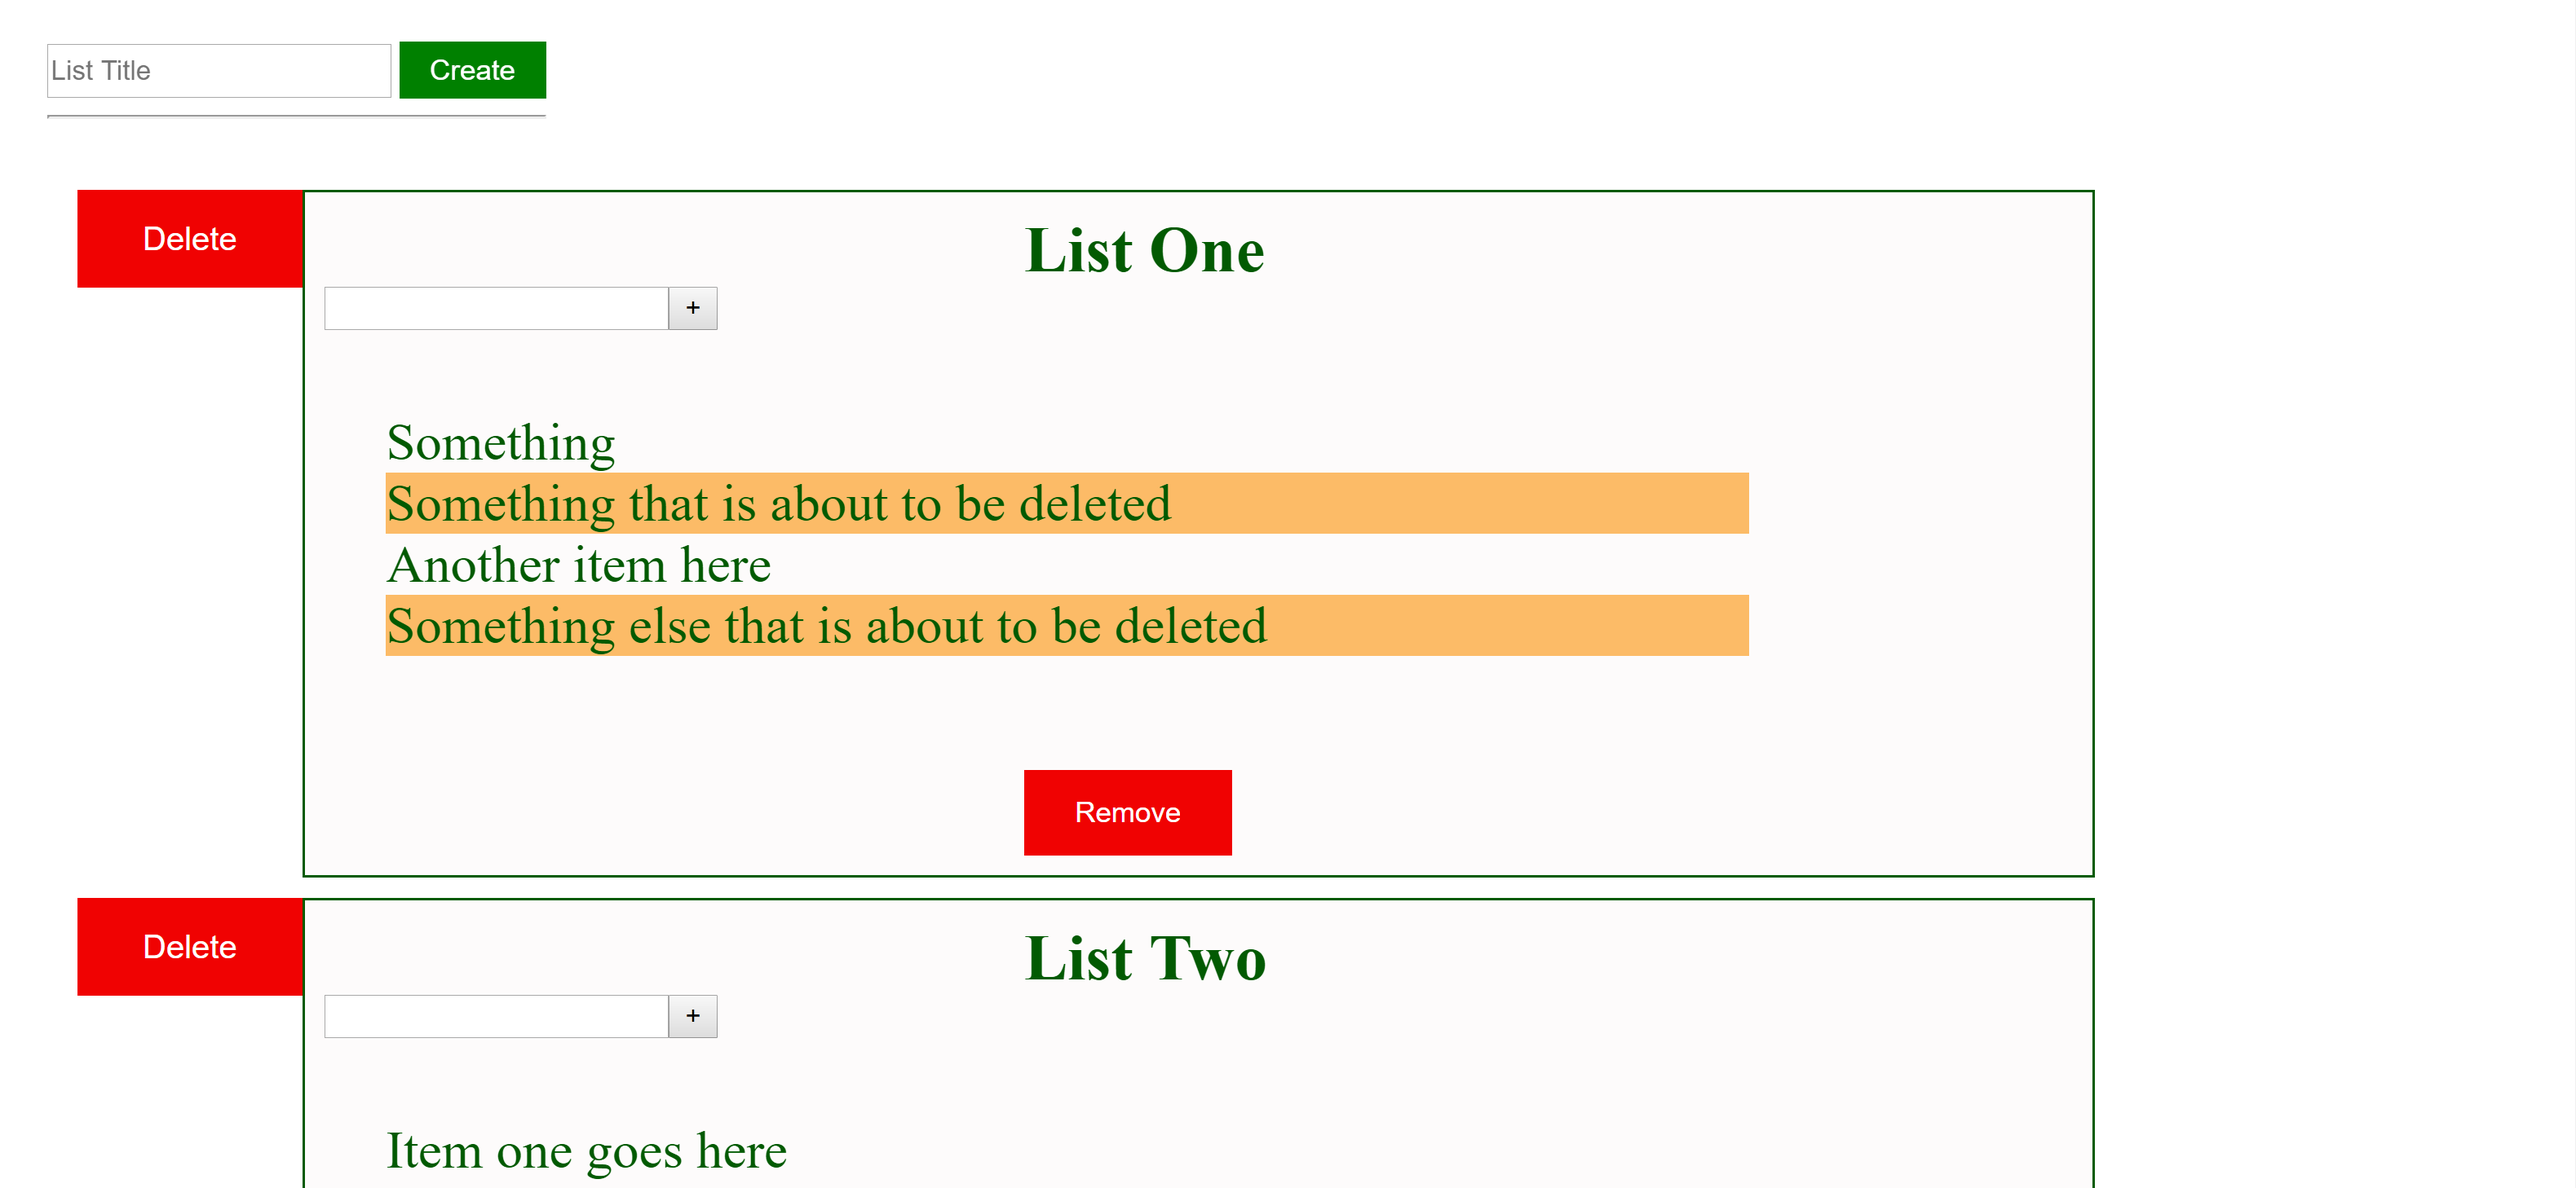
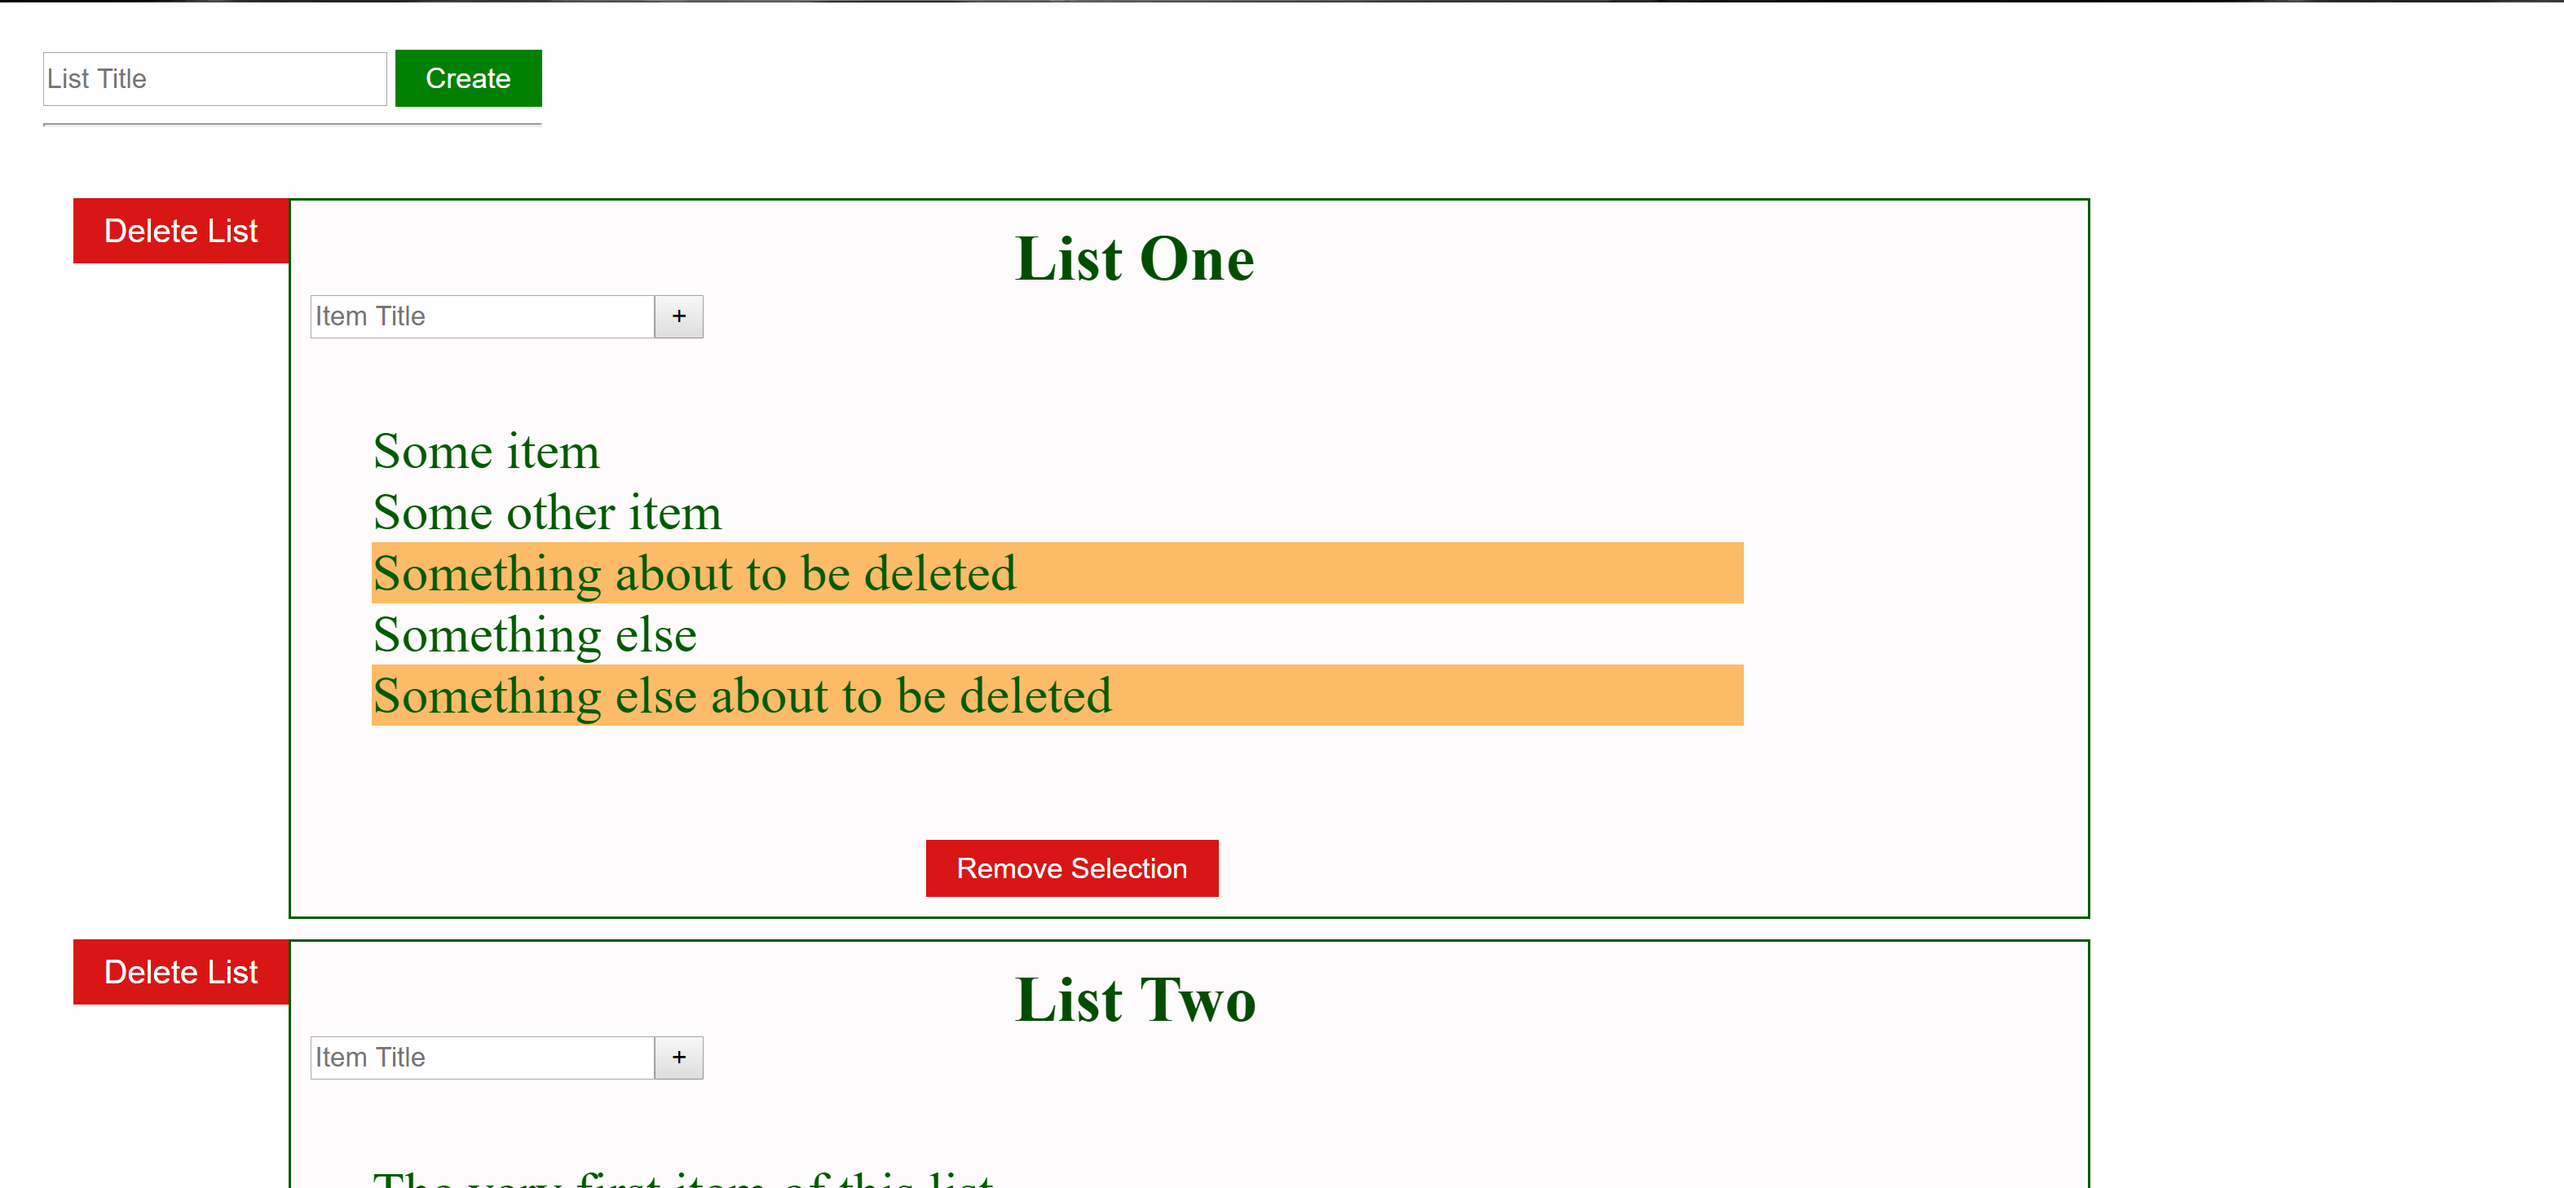
Adjusting CSS, creating listener functions

diff --git a/main.js b/main.js
@@ -1,15 +1,14 @@
 "use strict"
 
-let app      = document.querySelector('#app');
-let lists    = document.querySelector('#lists');
-let newList   = document.querySelector('#newList');
-let listName  = document.querySelector('#listName');
-let listCount = 0;
-
+let app        = document.querySelector('#app');
+let lists      = document.querySelector('#lists');
+let newList    = document.querySelector('#newList');
+let listName   = document.querySelector('#listName');
+let listCount  = 0;
 let makeListId = function(){
   return 'list' + listCount++;
 }
-
+// Each list 
 let addList = function(){
   let div;
   let title;
@@ -27,9 +26,9 @@ let addList = function(){
   let closeButtonText;
   let removeButton;
   let removeButtonText;
-
+  // Increment for unique item ids
   let itemCount = 0;
-  
+  // Create all elements
   div           = document.createElement('div');
   input         = document.createElement('input');
   addButton     = document.createElement('button');
@@ -39,20 +38,18 @@ let addList = function(){
   listContainer = document.createElement('div');
   listBody      = document.createElement('div');
   list          = document.createElement('ul');
-
-  input.setAttribute('type', 'text');
-
   titleText        = document.createTextNode(listName.value);
   addbuttonText    = document.createTextNode(' + ');
-  removeButtonText = document.createTextNode('Remove');
-  closeButtonText  = document.createTextNode('Delete');
-
-  listId  = makeListId();
-  inputId = listId + 'input';
-
+  removeButtonText = document.createTextNode('Remove Selection');
+  closeButtonText  = document.createTextNode('Delete List');
+  input.type        = 'text';
+  input.placeholder = 'Item Title';
+  // Assigning unique ids
+  listId   = makeListId();
+  inputId  = listId + 'input';
   div.id   = listId;
   input.id = inputId;
-
+  // Assigned CSS
   div.className           = 'listDiv';
   list.className          = 'list';
   title.className         = 'listTitle';
@@ -60,7 +57,7 @@ let addList = function(){
   listBody.className      = 'listBody';
   closeButton.className   = 'closeButton';
   removeButton.className  = 'removeButton';
-
+  // Appending children in reverse order
   title.appendChild(titleText);
   addButton.appendChild(addbuttonText);
   removeButton.appendChild(removeButtonText);
@@ -74,48 +71,27 @@ let addList = function(){
   div.appendChild(closeButton);
   div.appendChild(listBody);
   lists.appendChild(div);
-  
+  // Resetting input box 
   listName.value = '';
-  
-  addButton.addEventListener('click', function(){
-    return addItem();
-  });
-  closeButton.addEventListener('click', function(){
-    return div.parentNode.removeChild(div);
-  });  
-  removeButton.addEventListener('click', function(){
-    return removeItems();
-  });
-  // If user hits enter
-  input.addEventListener('keyup', function(e){
-    e.preventDefault();
-
-    if(e.keyCode === 13)
-      return addButton.click();
-  });
-
+  // Used closures so that each list
+  // has access to each item without
+  // keeping track of indices
   let addItem = function(){    
     let item;
     let itemText;
-
     itemCount++;
-
     item     = document.createElement('li');
     itemText = document.createTextNode(input.value);
-
     item.appendChild(itemText);
     list.appendChild(item);
-
     item.addEventListener('click', function(e){
       return selectItem(e.target);
     });
-
-    return input.value = '';
+    input.value = '';
+    return;
   }
-
   let removeItems = function(){
     let removedCount = 0;
-    
     for(let counter = 0; counter < itemCount; counter++){
       if(list.childNodes[counter].classList.contains('selected')){
         list.removeChild(list.childNodes[counter]);
@@ -124,26 +100,46 @@ let addList = function(){
       }
     }
     itemCount = itemCount - removedCount;
-
     return;
   }
-
   let selectItem = function(item){
     if(!item.classList.contains('selected'))
       return item.className = 'selected';
     if(item.classList.contains('selected'))
       return item.classList.remove('selected');
   }
+  // Event handlers.
+  // Created them to prevent memory leaks
+  // later on by removing event listeners,
+  // but it is not even worth it.
+  let addItemClickHandler = function(){
+    return addItem();
+  };
+  let closeButtonClickHandler = function(){
+    return div.parentNode.removeChild(div);
+  };
+  let removeButtonClickHandler = function(){
+    return removeItems();
+  };
+  let inputKeyupHandler = function(e){
+    e.preventDefault();
+    if(e.keyCode === 13)
+      return addButton.click();
+  };
+  // Event listeners
+  addButton.addEventListener('click', addItemClickHandler);
+  closeButton.addEventListener('click', closeButtonClickHandler);
+  removeButton.addEventListener('click', removeButtonClickHandler);
+  input.addEventListener('keyup', inputKeyupHandler);
   return;
 }
-
+// Events
 newList.addEventListener('click', function(){
   return addList();
 });
 // If user hits enter
 listName.addEventListener('keyup', function(e){
   e.preventDefault();
-
   if(e.keyCode === 13)
     return newList.click();
   });

diff --git a/main.css b/main.css
@@ -5,6 +5,7 @@
   padding: 5px;
 }
 .head{
+  background-color: white;
   position: fixed;
   padding: 10px;
 }
@@ -37,24 +38,22 @@
   display: flex;
 }   
 .removeButton{
-    background-color: #F00202;
+    background-color: #D81616;
     border: none;
-    margin-left: 40%;
-    margin-right: 40%;
+    margin: 0 0 0 35%;
     color: white;
-    padding: 10px 25px;
+    padding: 5px 15px;
     text-align: center;
     text-decoration: none;
     display: inline-block;
     font-size: 14px;  
-    height: 3em;
-
+    height: 2em;
 }
 #listName {
   height: 2em;
 }
 .listTitle {
-  color: #025A02;
+  color: #034D03;
   margin: 0 40%;
 }
 .createButton{
@@ -67,15 +66,15 @@
   height: 2em;
 }
 .closeButton{
-    background-color: #F00202;
+    background-color: #D81616;
     border: none;
     color: white;
-    padding: 15px 32px;
+    padding: 5px 15px;
     text-align: center;
     text-decoration: none;
     display: inline-block;
     font-size: 16px;  
-    height: 3em;
+    height: 2em;
 }
 .selected{
   background-color: #FCBB67;
